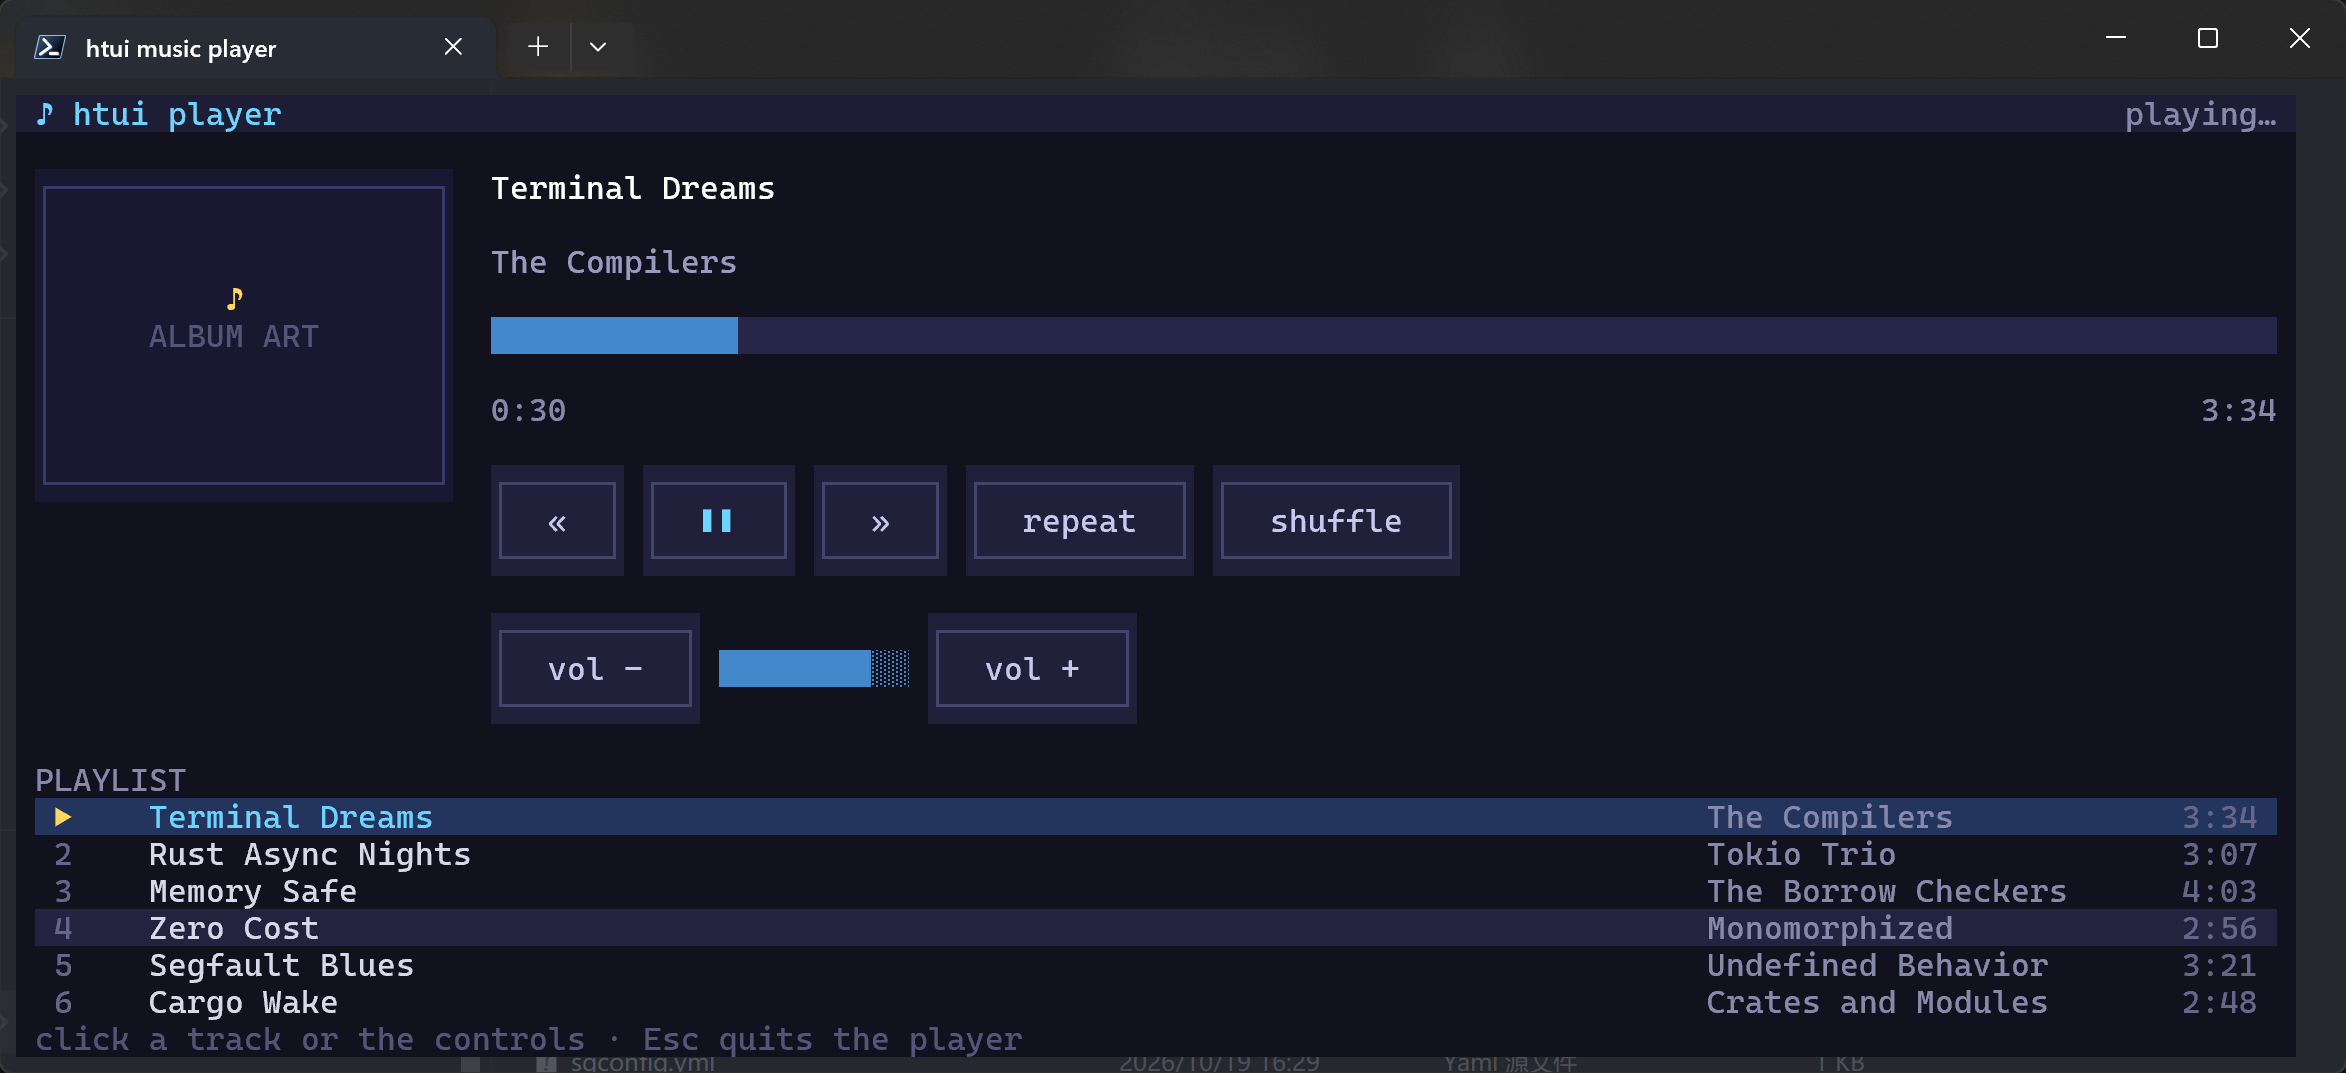
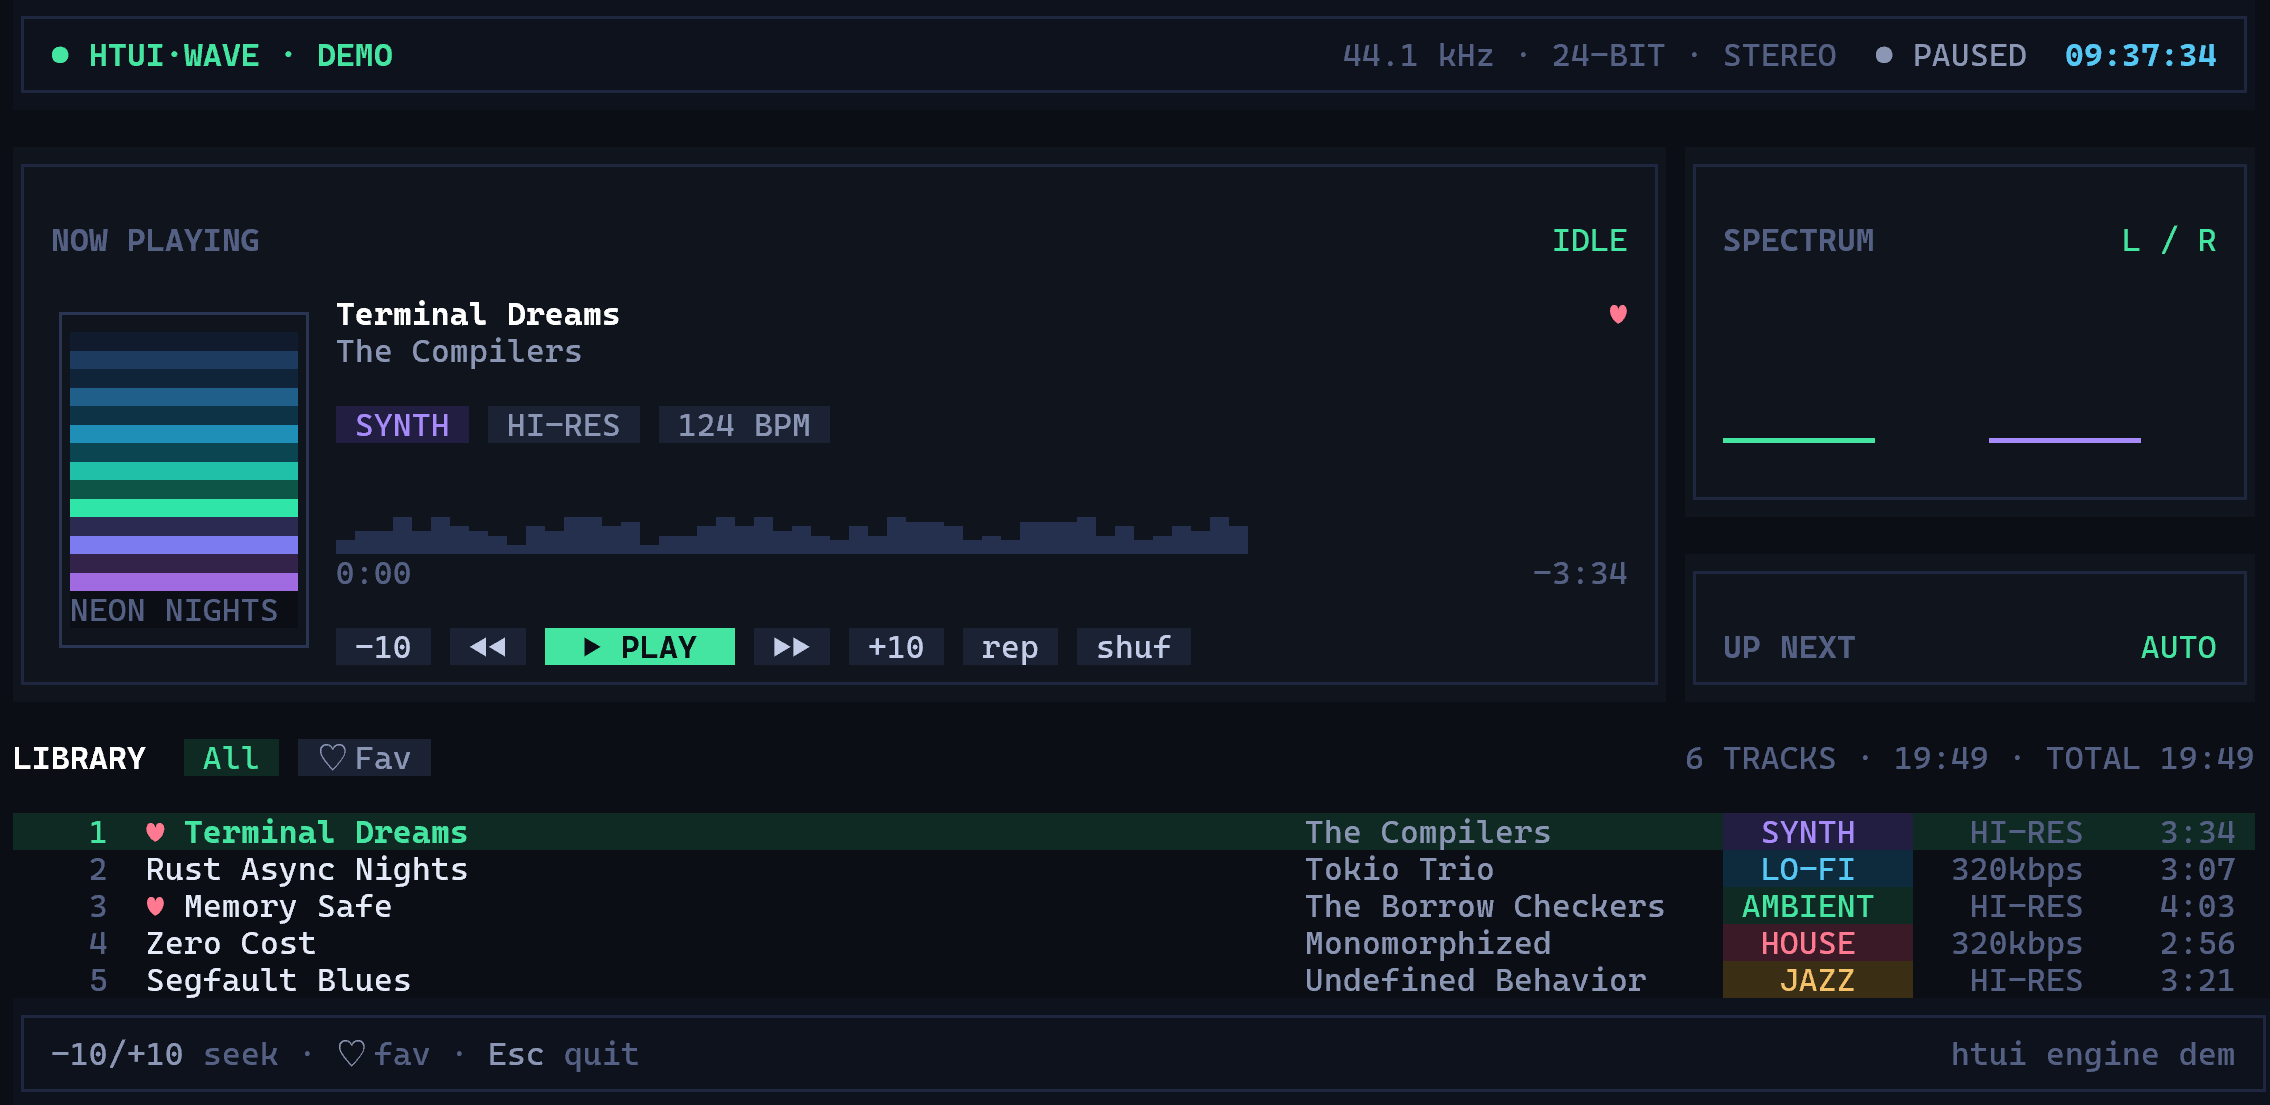
修改example更易读

diff --git a/AGENTS.md b/AGENTS.md
@@ -231,7 +231,8 @@ htui/
 │           └── commands.rs      # #[htui::commands] 展开（register + js_bindings 样本 JS 接口生成，JSDoc）
 ├── docs/
 │   ├── en-us/             # 英文文档（当前仅 todo 占位文件，内容为空）
-│   ├── example.png        # 文档配图
+│   ├── example.png        # 文档配图（终端示例）
+│   ├── example-html.png   # 文档配图（浏览器打开 player.html）
 │   └── zh-cn/
 │       ├── 边界文档.md           # 边界文档（目标 / 核心承诺 / 拒绝清单 / 能力地图）
 │       ├── 架构.md               # 渲染管线与线程模型（generation/geometry 分层、四线程职责、合并与安全模型）

diff --git a/crates/htui/README.md b/crates/htui/README.md
@@ -60,7 +60,9 @@ cd example
 cargo run
 ```
 
-![htui music player](https://raw.githubusercontent.com/dDostalker/htui/main/docs/example.png)
+| Terminal — `cargo run` | Browser — same `player.html` |
+| --- | --- |
+| ![htui music player in the terminal](https://raw.githubusercontent.com/dDostalker/htui/main/docs/example.png) | ![htui music player in the browser](https://raw.githubusercontent.com/dDostalker/htui/main/docs/example-html.png) |
 
 ## Documentation
 

diff --git a/README.md b/README.md
@@ -25,9 +25,8 @@ possible to pick up.
 
 ## Quick start
 
-```toml
-[dependencies]
-htui = "0.1"
+```sh
+cargo add htui
 ```
 
 ```rust
@@ -59,7 +58,9 @@ cd example
 cargo run
 ```
 
-![htui music player](docs/example.png)
+| Terminal — `cargo run` | Browser — same `player.html` |
+| --- | --- |
+| ![htui music player in the terminal](docs/example.png) | ![htui music player in the browser](docs/example-html.png) |
 
 ## Documentation
 

diff --git a/README.zh-CN.md b/README.zh-CN.md
@@ -20,9 +20,8 @@
 
 ## 快速上手
 
-```toml
-[dependencies]
-htui = "0.1"
+```sh
+cargo add htui
 ```
 
 ```rust
@@ -54,7 +53,9 @@ cd example
 cargo run
 ```
 
-![htui 音乐播放器](docs/example.png)
+| 终端 —— `cargo run` | 浏览器 —— 同一份 `player.html` |
+| --- | --- |
+| ![htui 音乐播放器（终端）](docs/example.png) | ![htui 音乐播放器（浏览器）](docs/example-html.png) |
 
 ## 文档
 
